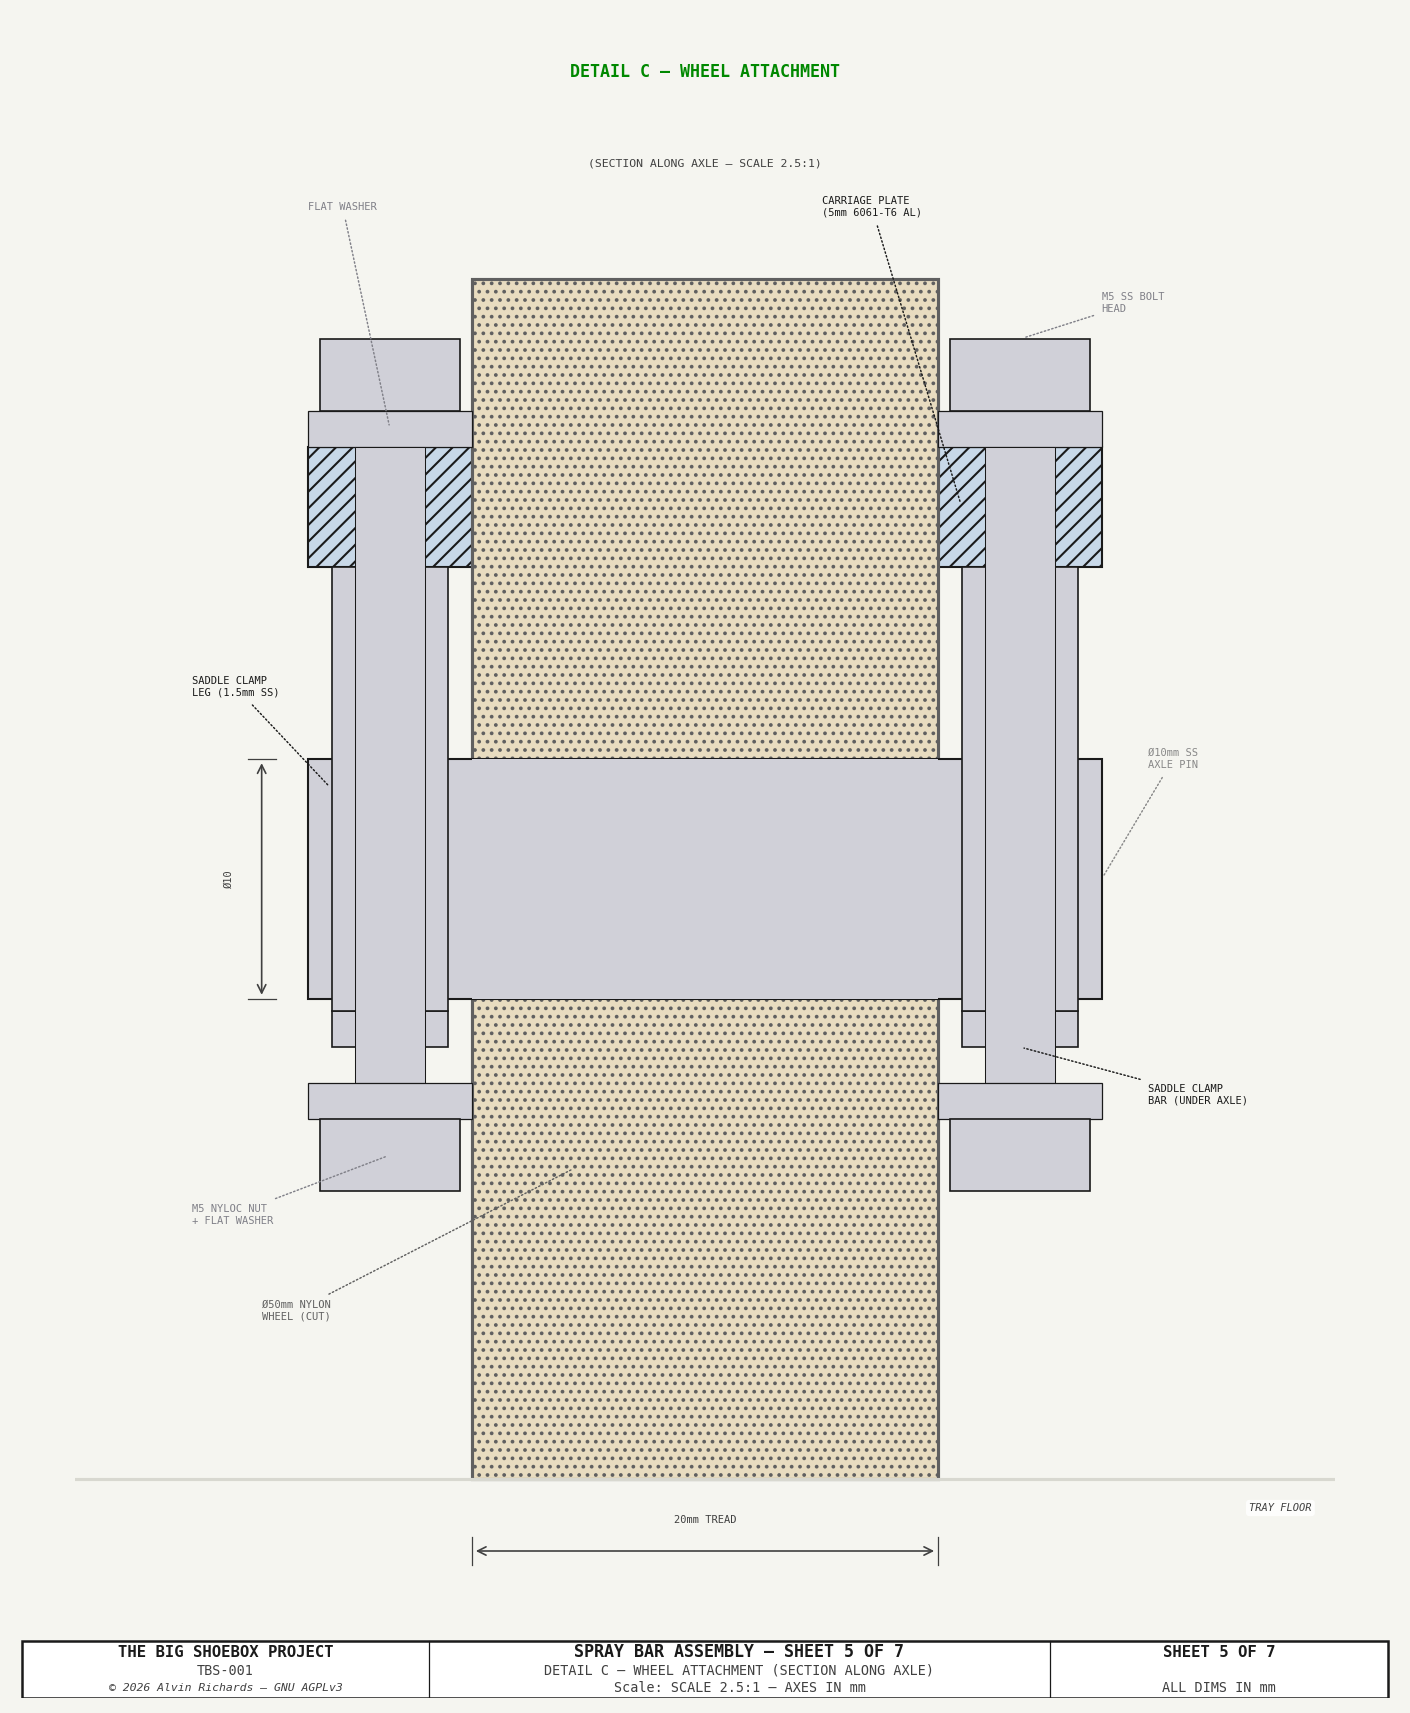
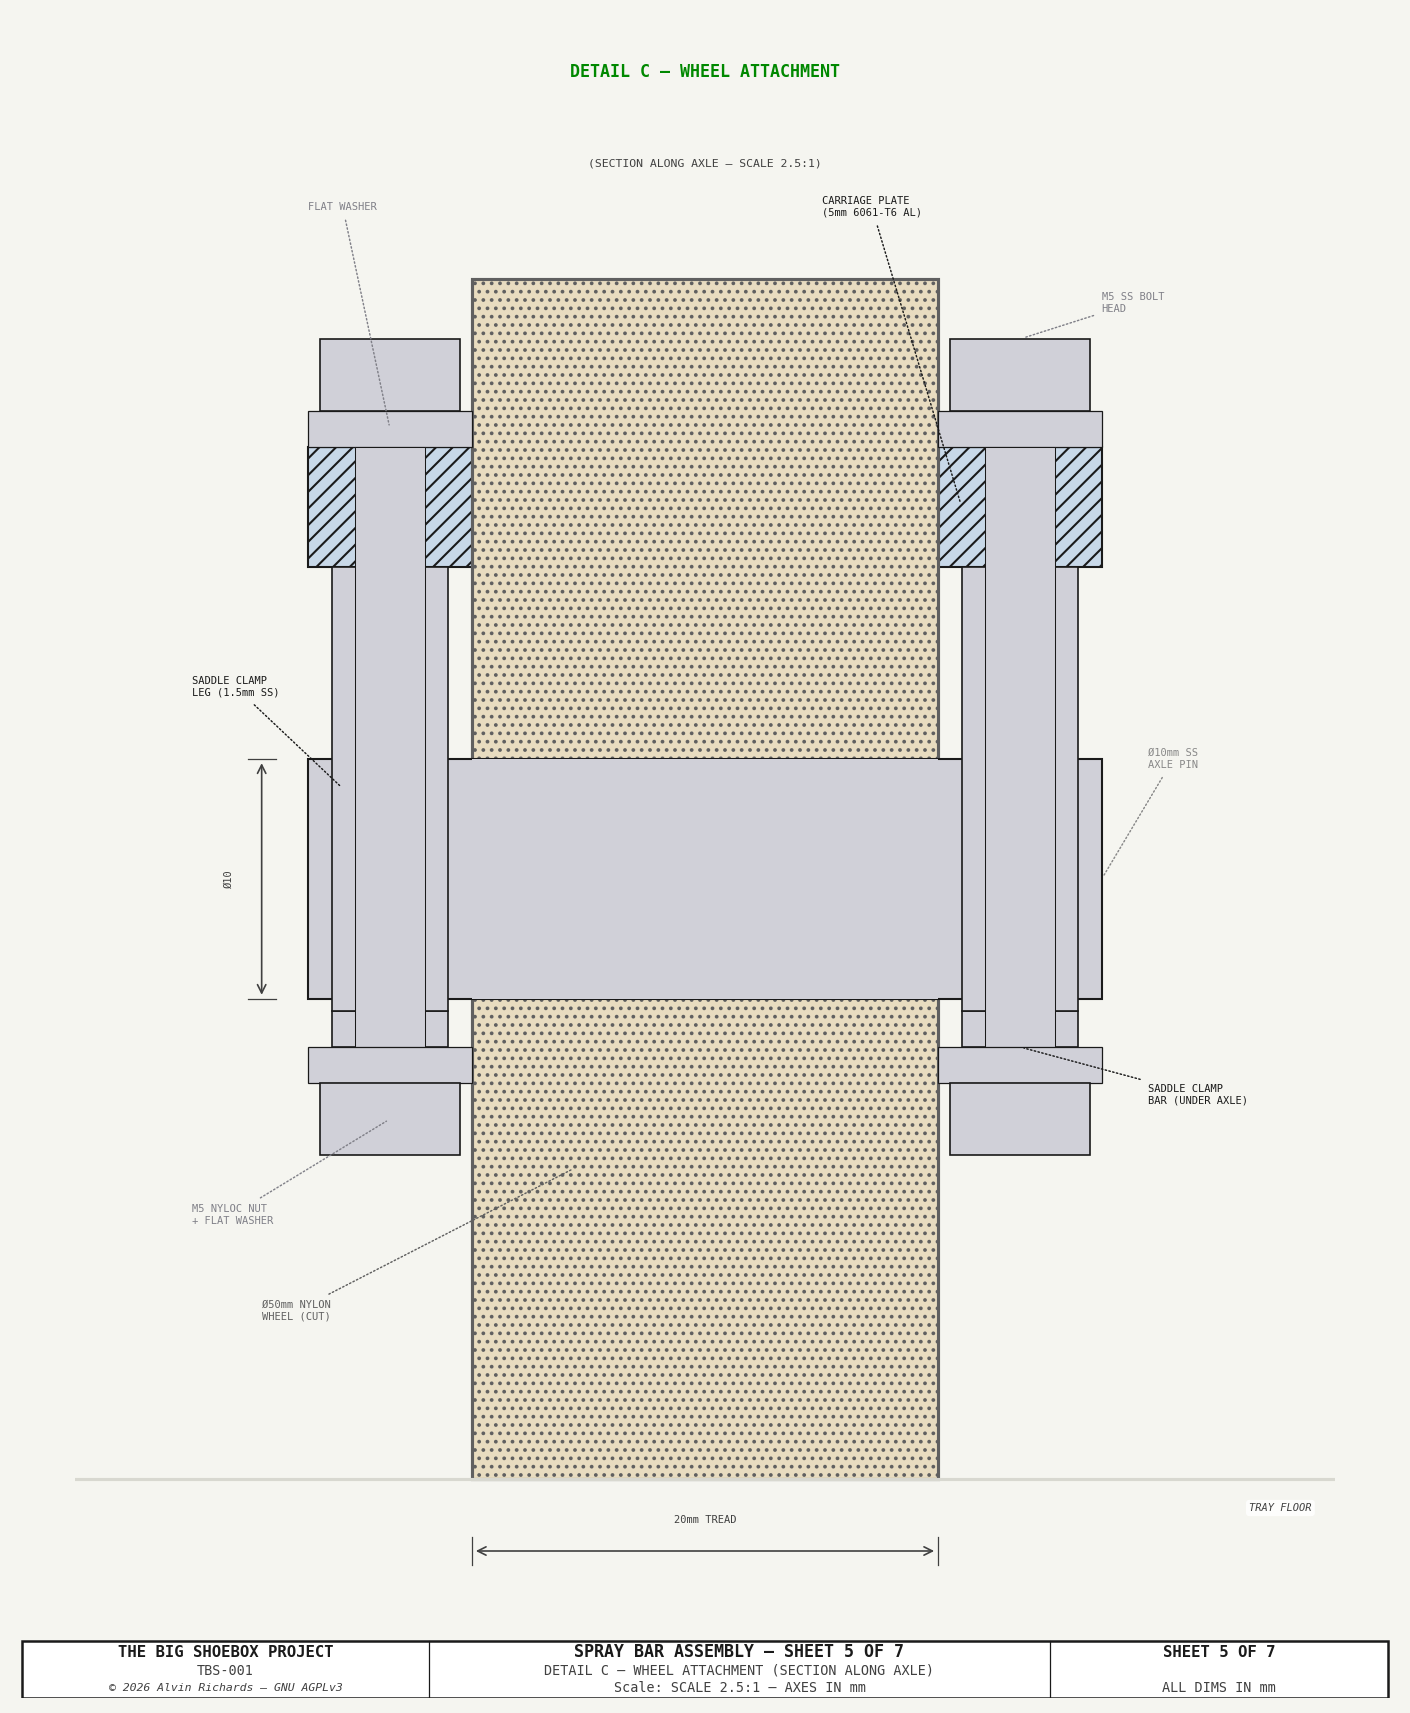
Sheet 5: move nut/washer up to butt against saddle clamp bar

Changed region(s): [[0.6553, 0.5879, 0.7801, 0.7116], [0.2184, 0.5879, 0.3433, 0.7116]]

diff --git a/src/generators/generate_spray_bar_diagram.py b/src/generators/generate_spray_bar_diagram.py
@@ -1378,7 +1378,7 @@ def draw_sheet5():
                        7, washer_t,
                        fc=C_BOLT_FILL, ec=C_FRAME, lw=0.6, zorder=7))
         # Shaft (through plate + clamp leg)
-        shaft_bot = sc_bar_bot - washer_t
+        shaft_bot = sc_bar_bot
         ax_w.add_patch(Rectangle((bolt_cx - 1.5, shaft_bot),
                        3, plate_top_y - shaft_bot,
                        fc=C_BOLT_FILL, ec=C_FRAME, lw=0.5, zorder=7))
@@ -1403,7 +1403,7 @@ def draw_sheet5():
 
     # ── Labels ───────────────────────────────────────────────────────────
     bolt_head_top = plate_top_y + washer_t + bolt_head_h
-    nut_bot = sc_bar_bot - washer_t - washer_t - nut_h
+    nut_bot = sc_bar_bot - washer_t - nut_h
 
     # Right side labels
     leader(ax_w, clamp_cx_r, bolt_head_top, w_xr - 10, 24,
@@ -1427,7 +1427,7 @@ def draw_sheet5():
            "FLAT WASHER",
            fs=5, color="#808088", font=FONT, zorder=20)
 
-    leader(ax_w, clamp_cx_l - sc_hw, (sc_bar_top + plate_bot_y) / 2,
+    leader(ax_w, clamp_cx_l - sc_hw + 0.5, (sc_bar_top + plate_bot_y) / 2,
            w_xl + 5, 8,
            "SADDLE CLAMP\nLEG (1.5mm SS)",
            fs=5, color=C_FRAME, font=FONT, zorder=20)
